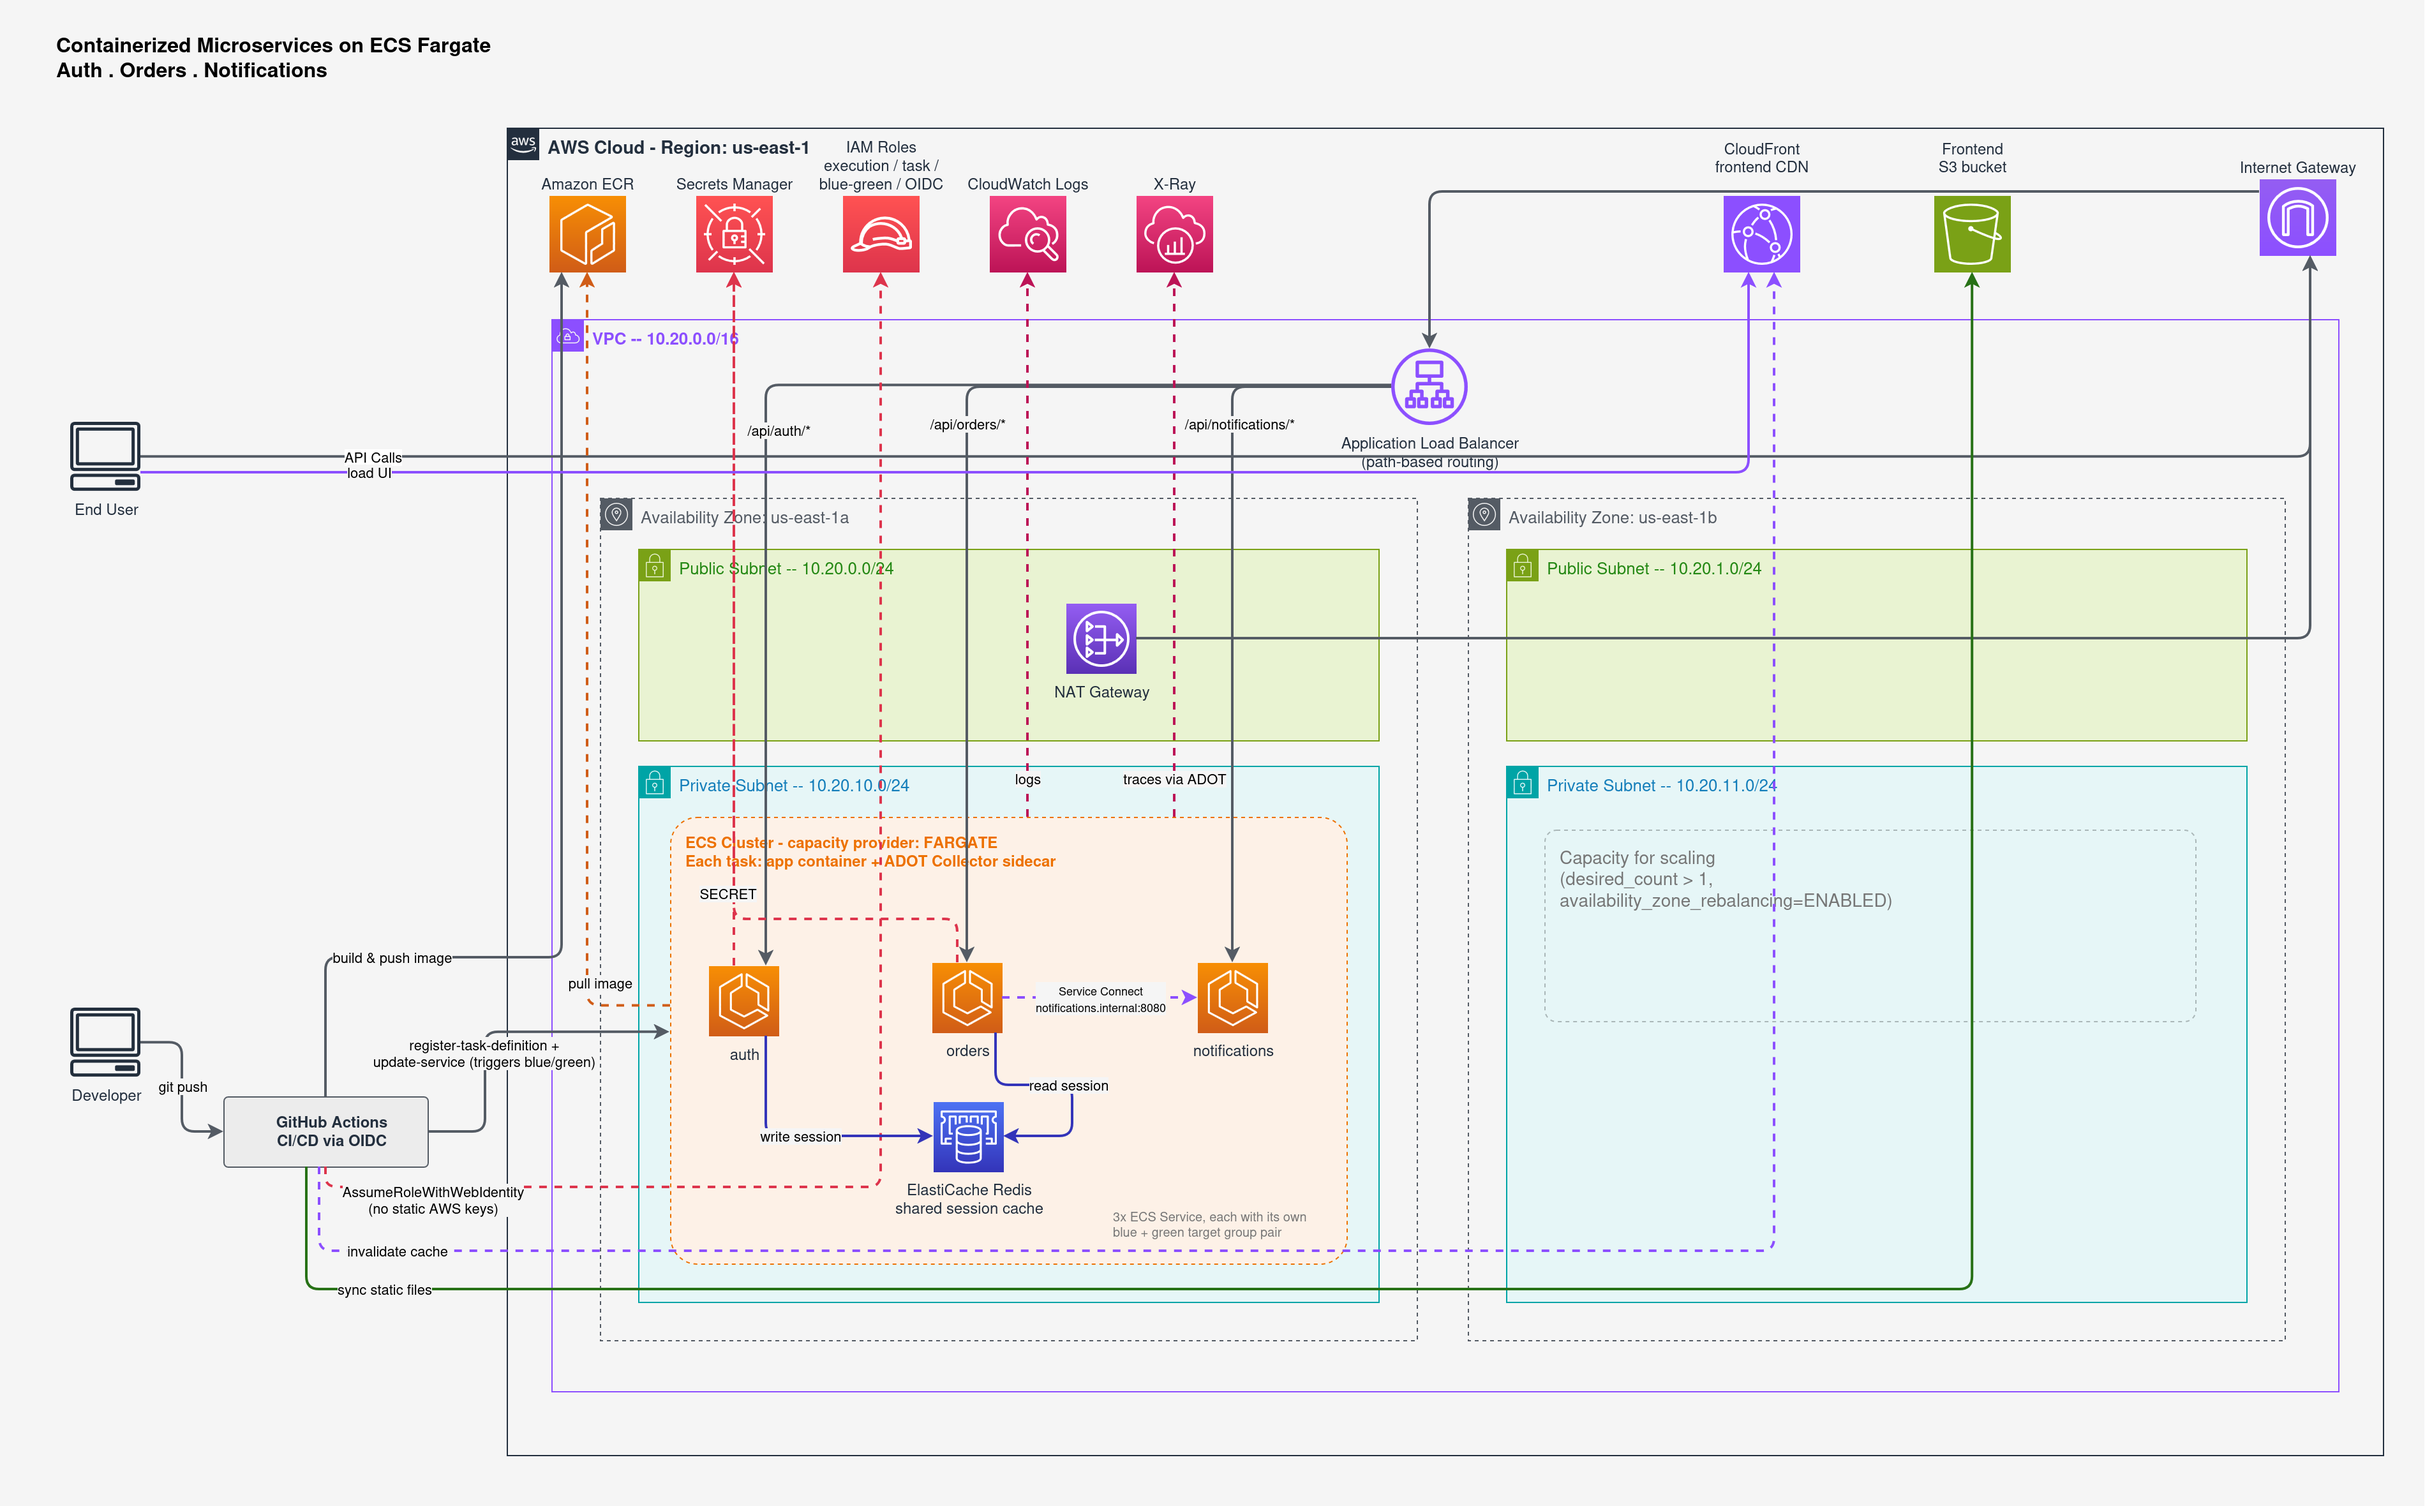
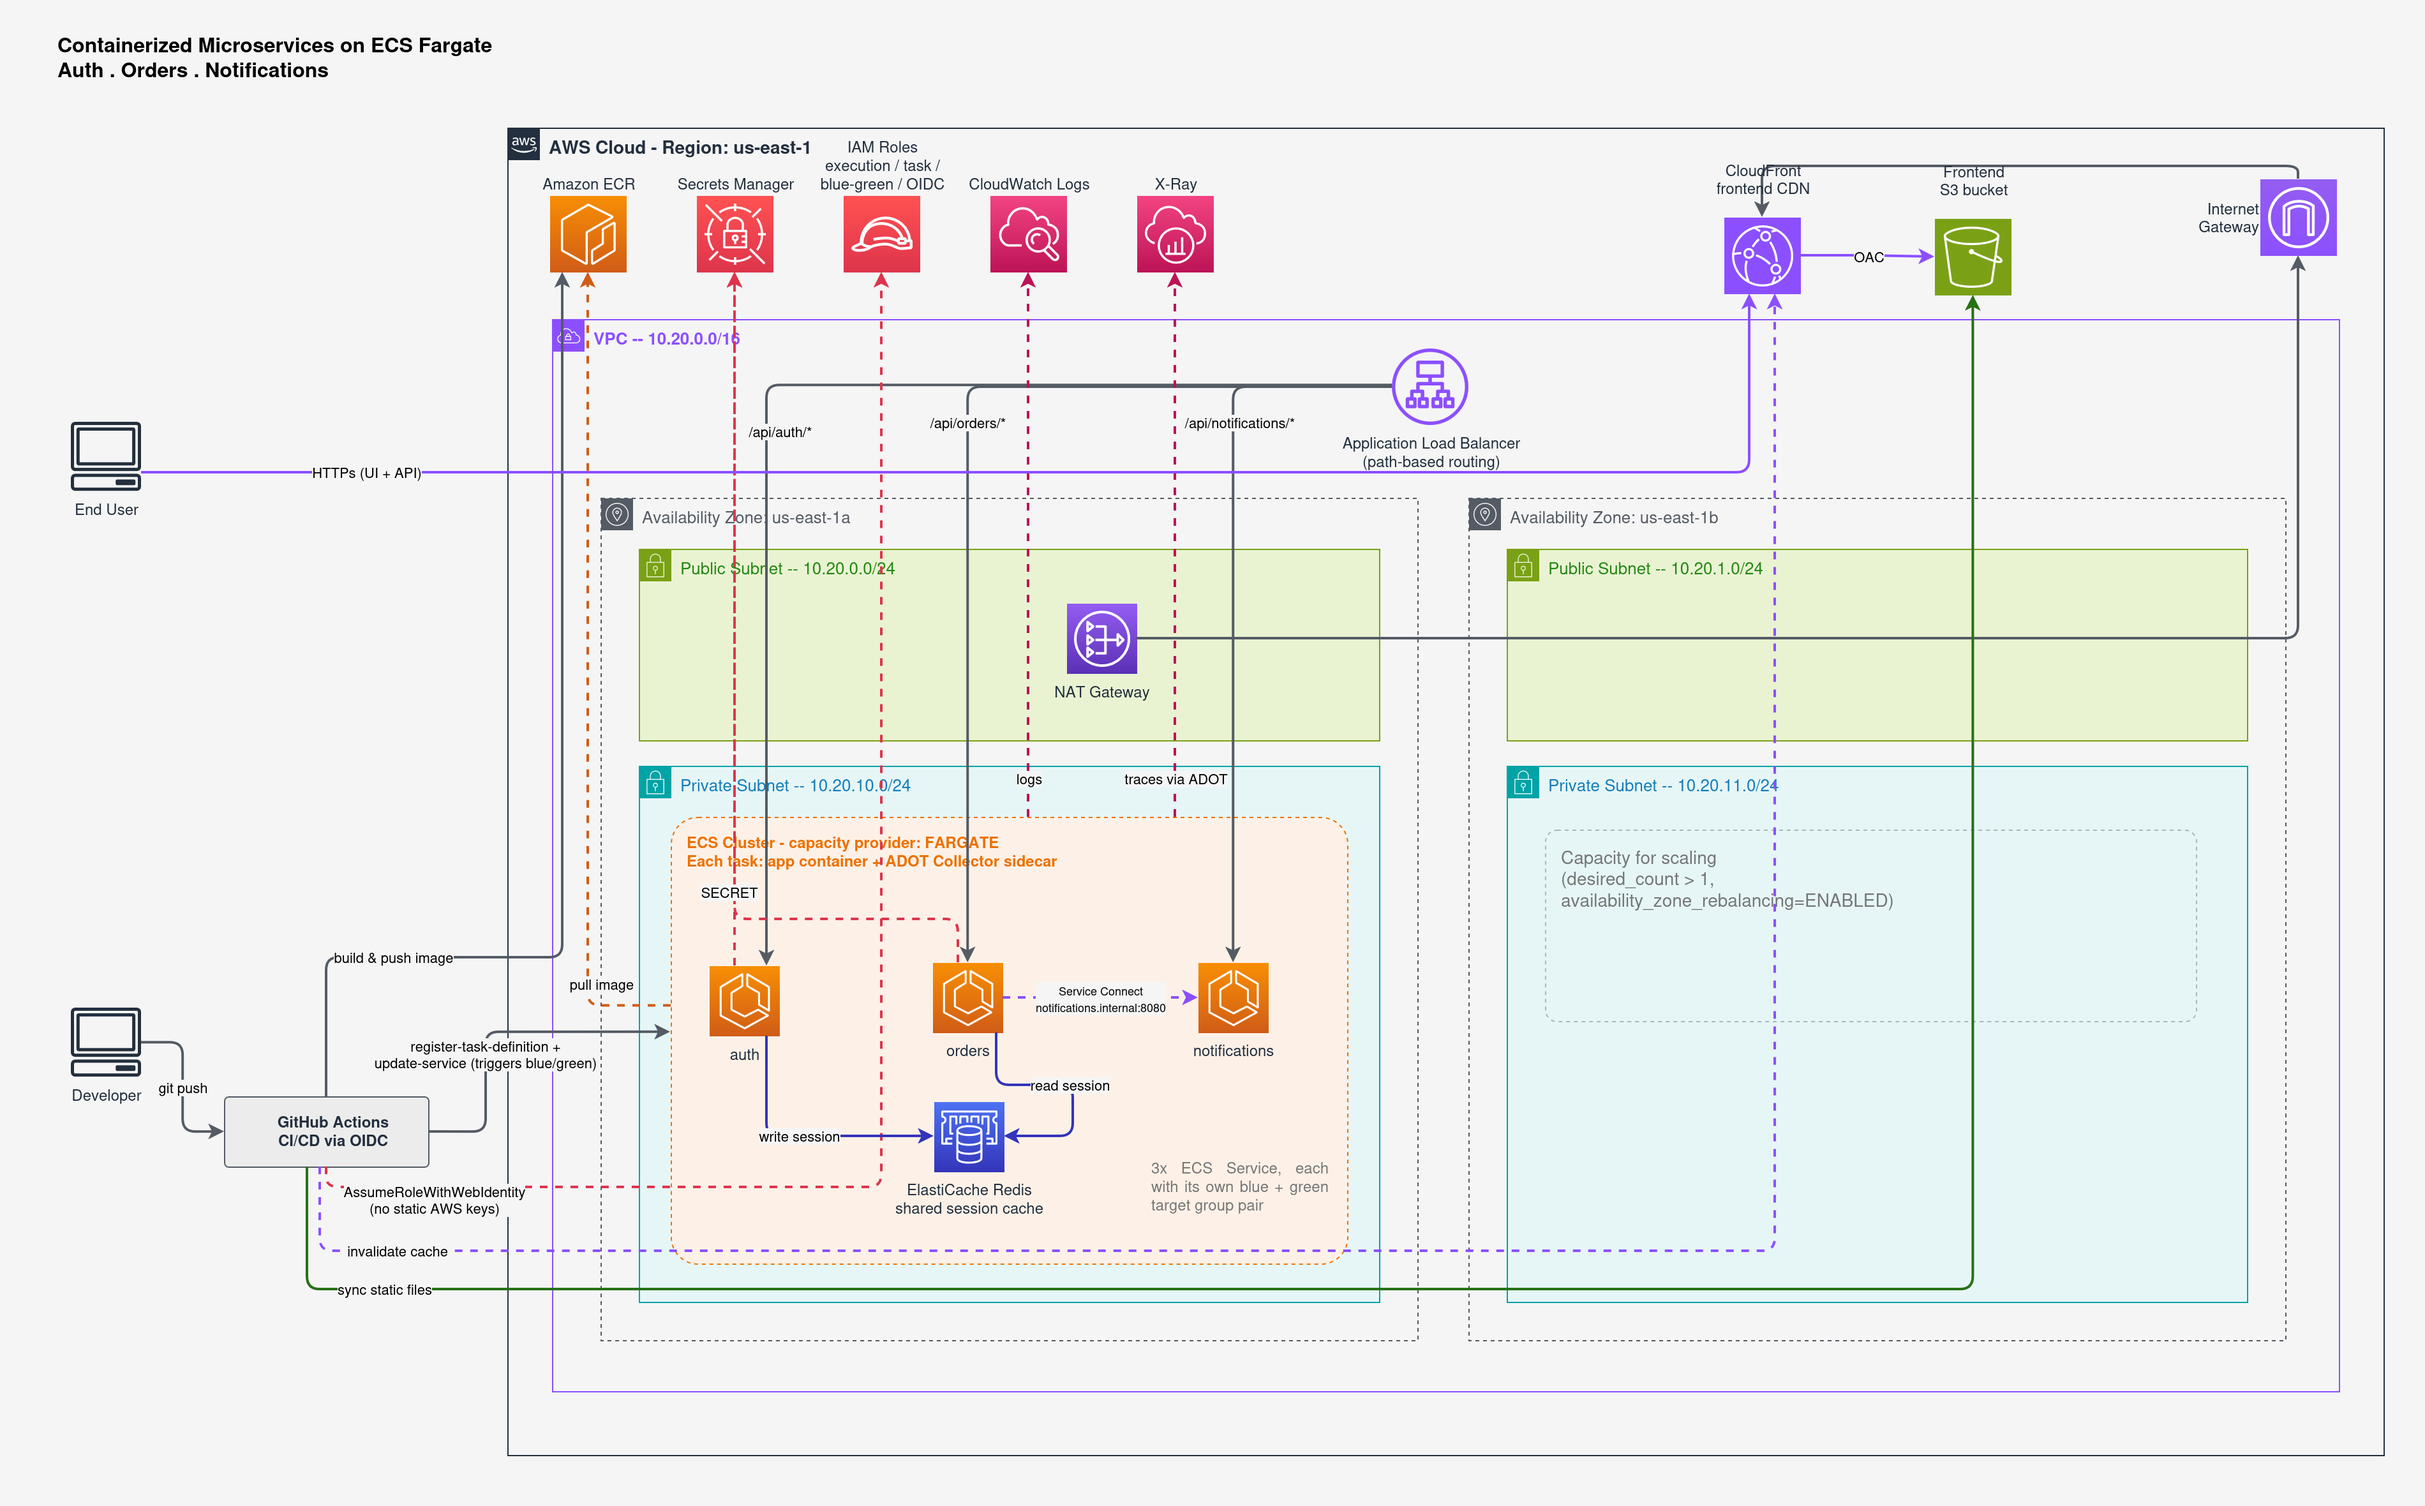
updated architecture diagram

diff --git a/frontend/index.html b/frontend/index.html
@@ -67,16 +67,16 @@
     <h2>API Endpoint</h2>
     <div class="row">
       <div style="flex:3">
-        <label for="apiBase">Base URL (the ALB, e.g. http://your-alb-dns-name)</label>
-        <input id="apiBase" type="text" placeholder="http://your-alb-dns-name.us-east-1.elb.amazonaws.com">
+        <label for="apiBase">Base URL</label>
+        <input id="apiBase" type="text" placeholder="leave blank (API is served from this same CloudFront distribution at /api/*)">
       </div>
       <div style="flex:1; align-self:flex-end;">
         <button class="secondary" onclick="saveBase()" style="width:100%; margin-top:0;">Save</button>
       </div>
     </div>
     <div id="baseStatus" class="status-line muted">
-      This is pre-filled automatically when deployed via GitHub Actions. Edit it if you're pointing at a
-      different environment, then click Save.
+      CloudFront proxies /api/* to the ALB, so the deployed console needs no configuration. Only set this
+      to point at a different environment directly (e.g. an ALB DNS name for local debugging).
     </div>
   </div>
 
@@ -150,15 +150,17 @@
 
 <footer>
   Frontend hosted on S3 + CloudFront. Backend: ECS Fargate, ALB, Service Connect, ElastiCache, Secrets Manager.
-  See the project <a href="https://github.com/Mr-Logicc/containerized-microservices-project" target="_blank">README</a> for the full architecture.
+  See the project <a href="https://github.com" target="_blank">README</a> for the full architecture.
 </footer>
 
 <script>
   let token = null;
-  const DEFAULT_BASE = "__API_BASE_URL__"; // replaced at deploy time by GitHub Actions
 
+  // Empty string means "relative to this page's origin", correct by
+  // default, since CloudFront serves both the frontend and /api/* from the
+  // same domain. Only overridden if the user sets a different base below.
   function getBase() {
-    return localStorage.getItem("apiBase") || (DEFAULT_BASE.indexOf("__") === 0 ? "" : DEFAULT_BASE);
+    return localStorage.getItem("apiBase") || "";
   }
 
   function saveBase() {

diff --git a/README.md b/README.md
@@ -29,7 +29,7 @@ This README is written AWS-first on purpose: the goal of the project is demonstr
 
 A browser-based console for testing and visualizing the deployed services [**Live link**](https://d3faa1nffwbywe.cloudfront.net/).
 
-For manual testing using curl you can follow [**this**](#option-b-curl-for-scripting-or-when-you-want-to-see-raw-responses) section using the deployed [**application load balancer's public address**](http://demo1-alb-1678753967.us-east-1.elb.amazonaws.com)
+For manual testing using curl you can follow [**this**](#option-b-curl-for-scripting-or-when-you-want-to-see-raw-responses) section using the link above as $CF value
 
 ---
 
@@ -62,28 +62,29 @@ bad-release problems; **X-Ray** answers the visibility problem.
 ```
 End User's browser
    |
-   +--(1) load the UI --> CloudFront --> S3 (private, via Origin Access Control)
-   |
-   +--(2) API calls (CORS) --> Internet Gateway --> Application Load Balancer
-                                    (path-based routing: /api/auth/*, /api/orders/*, /api/notifications/*)
-                                       |
-                                       +-- ECS Fargate Service: auth ----------+
-                                       +-- ECS Fargate Service: orders --------+---> ECS Service Connect (internal DNS)
-                                       +-- ECS Fargate Service: notifications -+
-                                       |
-                                       +--> ElastiCache Redis (shared session cache, read by auth + orders)
-                                       +--> Secrets Manager (API_KEY injected into auth + orders at launch)
-                                       +--> ECR (3 private repos, one per service, scan-on-push)
-                                       +--> CloudWatch Logs (container + ADOT Collector sidecar logs)
-                                       +--> X-Ray (traces exported by an ADOT Collector sidecar in every task)
+   +-- HTTPS --> CloudFront
+                    |
+                    +-- default behavior -----> S3 (private, via Origin Access Control)
+                    |                            frontend static assets
+                    |
+                    +-- /api/* behavior -------> Application Load Balancer (plain HTTP)
+                                                    (path-based routing: /api/auth/*, /api/orders/*, /api/notifications/*)
+                                                       |
+                                                       +-- ECS Fargate Service: auth ----------+
+                                                       +-- ECS Fargate Service: orders --------+---> ECS Service Connect (internal DNS)
+                                                       +-- ECS Fargate Service: notifications -+
+                                                       |
+                                                       +--> ElastiCache Redis (shared session cache, read by auth + orders)
+                                                       +--> Secrets Manager (API_KEY injected into auth + orders at launch)
+                                                       +--> ECR (3 private repos, one per service, scan-on-push)
+                                                       +--> CloudWatch Logs (container + ADOT Collector sidecar logs)
+                                                       +--> X-Ray (traces exported by an ADOT Collector sidecar in every task)
 
 GitHub Actions --[OIDC, no static AWS keys]--> IAM Role --> ECR push + ECS deploy + S3 sync + CloudFront invalidation
 ```
 
-The frontend is a plain HTML/JS single page — no framework, no build step —
-that calls the ALB directly from the browser. It never sits between the user
-and the API; it's just the UI for exercising the three services and watching
-them run.
+The frontend is a plain HTML/JS single page - no framework, no build step.
+It calls the API using paths relative to its own origin (`/api/...`), and CloudFront is what routes those specific paths to the ALB - the browser never talks to the ALB directly.
 
 See the full diagram at the top of this document for the VPC/subnet/AZ layout.
 
@@ -129,6 +130,13 @@ pillars.
 ### Why S3 + CloudFront instead of ECS for the frontend
 
 The frontend is a static single page with no server-side logic, it doesn't need a running process, so putting it on Fargate would mean paying for and managing compute (plus a task definition, blue/green target groups, and a listener rule) 24/7 just to serve files that never change at request time. **S3 + CloudFront** is effectively free at this scale, there's no compute to patch or scale, and CloudFront's default certificate gives the whole frontend HTTPS for free.
+
+### Why CloudFront proxies /api/* to the ALB
+
+The first working version had the frontend call the ALB directly from the browser, using CORS to permit the cross-origin request. That version broke the moment the frontend went live on CloudFront: browsers block an HTTPS page from making an active request (fetch, XHR) to a plain HTTP endpoint - "mixed content" - and the ALB has no HTTPS listener. CORS headers don't
+help here; the browser refuses the request before CORS is even evaluated.
+
+The fix is an additional CloudFront cache behavior: requests matching `/api/*` are routed to the ALB as a second origin instead of to S3. loudFront terminates HTTPS for the browser and connects to the ALB over plain HTTP on the backend, so from the browser's point of view there is exactly one HTTPS origin serving both the UI and the API, no mixed content, and no CORS handling needed for the deployed environment either. The ALB's own HTTP listener is unchanged; CloudFront is simply an additional, encrypted front door in front of it.
 
 ### A design decision that changed mid-project (and why that's worth reading)
 
@@ -177,7 +185,7 @@ curl -s localhost:8083/notifications
 
 ```bash
 cd infra
-cp terraform.tfvars.example terraform.tfvars   #  set github_repo to "your-username/your-repo"
+cp terraform.tfvars.example terraform.tfvars   # set github owner/repo variables
 terraform init
 terraform apply
 ```
@@ -190,7 +198,6 @@ Then set these **GitHub repository variables** (Settings → Secrets and variabl
 | `AWS_REGION` | (whatever you set - default `us-east-1`) |
 | `PROJECT_NAME` | (whatever you set - default `microdemo`) |
 | `ECS_CLUSTER_NAME` | `ecs_cluster_name` |
-| `API_BASE_URL` | `app_url` |
 | `FRONTEND_BUCKET_NAME` | `frontend_bucket_name` |
 | `CLOUDFRONT_DISTRIBUTION_ID` | `cloudfront_distribution_id` |
 
@@ -204,23 +211,23 @@ Push to `main` and GitHub Actions builds and deploys all three services plus the
 terraform -chdir=infra output app_url
 ```
 
-Open that URL. It's a small browser console (login, place an order, watch notifications and service health) that exercises the same three services the curl commands below hit - useful for actually *seeing* the system run rather than reading JSON in a terminal. It talks to the ALB directly from your browser, so if it can't reach a service, your browser's network tab will show exactly which call failed and why - often more useful for debugging than curl's plain "connection refused."
+Open that URL. It's a small browser console (login, place an order, watch notifications and service health) that exercises the same three services the curl commands below hit - useful for actually *seeing* the system run rather than reading JSON in a terminal. Every request it makes is relative to that same URL (`/api/...`), which CloudFront routes to the ALB, so if something fails, your browser's network tab will show exactly which call failed and why. often more useful for debugging than curl's plain "connection refused."
 
 ### Option B: curl, for scripting or when you want to see raw responses
 
-Get the load balancer's public address:
+Get the CloudFront URL (HTTPS, the same path production traffic takes)
 
 ```bash
-ALB=$(terraform -chdir=infra output -raw alb_dns_name)
+CF=$(terraform -chdir=infra output -raw app_url)                  # $CF/api/...
 ```
 
 **1. Health checks** (confirms the ALB, target groups, and each service are
 all wired correctly):
 
 ```bash
-curl -i http://$ALB/api/auth/health
-curl -i http://$ALB/api/orders/health
-curl -i http://$ALB/api/notifications/health
+curl -i $CF/api/auth/health
+curl -i $CF/api/orders/health
+curl -i $CF/api/notifications/health
 ```
 
 Each should return `200 ok`. A `404` here almost always means a listener rule / path mismatch; a `503` means the target group has no healthy targets yet - check the ECS service's events tab in the console.
@@ -228,15 +235,15 @@ Each should return `200 ok`. A `404` here almost always means a listener rule / 
 **2. Full request flow** (exercises the shared session cache and Service Connect in one pass):
 
 ```bash
-TOKEN=$(curl -s -X POST http://$ALB/api/auth/login \
+TOKEN=$(curl -s -X POST $CF/api/auth/login \
   -d '{"username":"Ahmed","password":"anything"}' | jq -r .token)
 
-curl -s -X POST http://$ALB/api/orders/orders \
+curl -s -X POST $CF/api/orders/orders \
   -H "Authorization: Bearer $TOKEN" -d '{"item":"keyboard","quantity":1}'
 
-curl -s http://$ALB/api/orders/orders -H "Authorization: Bearer $TOKEN"
+curl -s $CF/api/orders/orders -H "Authorization: Bearer $TOKEN"
 
-curl -s http://$ALB/api/notifications/notifications
+curl -s $CF/api/notifications/notifications
 ```
 
 If the order call succeeds but no notification shows up, that's a Service Connect problem, not an ALB problem - check the `orders` task's logs in CloudWatch for the outbound call to `notifications.internal:8080`.
@@ -258,7 +265,6 @@ aws logs tail /ecs/$(terraform -chdir=infra output -raw ecs_cluster_name | sed '
 
 ## Known Limitations
 
-- **No HTTPS** — the ALB listens on plain HTTP. A real deployment needs an ACM certificate and an HTTPS listener.
 - **`desired_count = 1` per service** - the design supports multi-AZ scaling (see Reliability above) but isn't currently exercising it, to keep the demo's AWS cost low.
 - **In-memory data only** there's no RDS/DynamoDB. The point of this project is the surrounding infrastructure, not a persistence layer.
 - **Fake authentication** Auth accepts any non-empty username/password.
